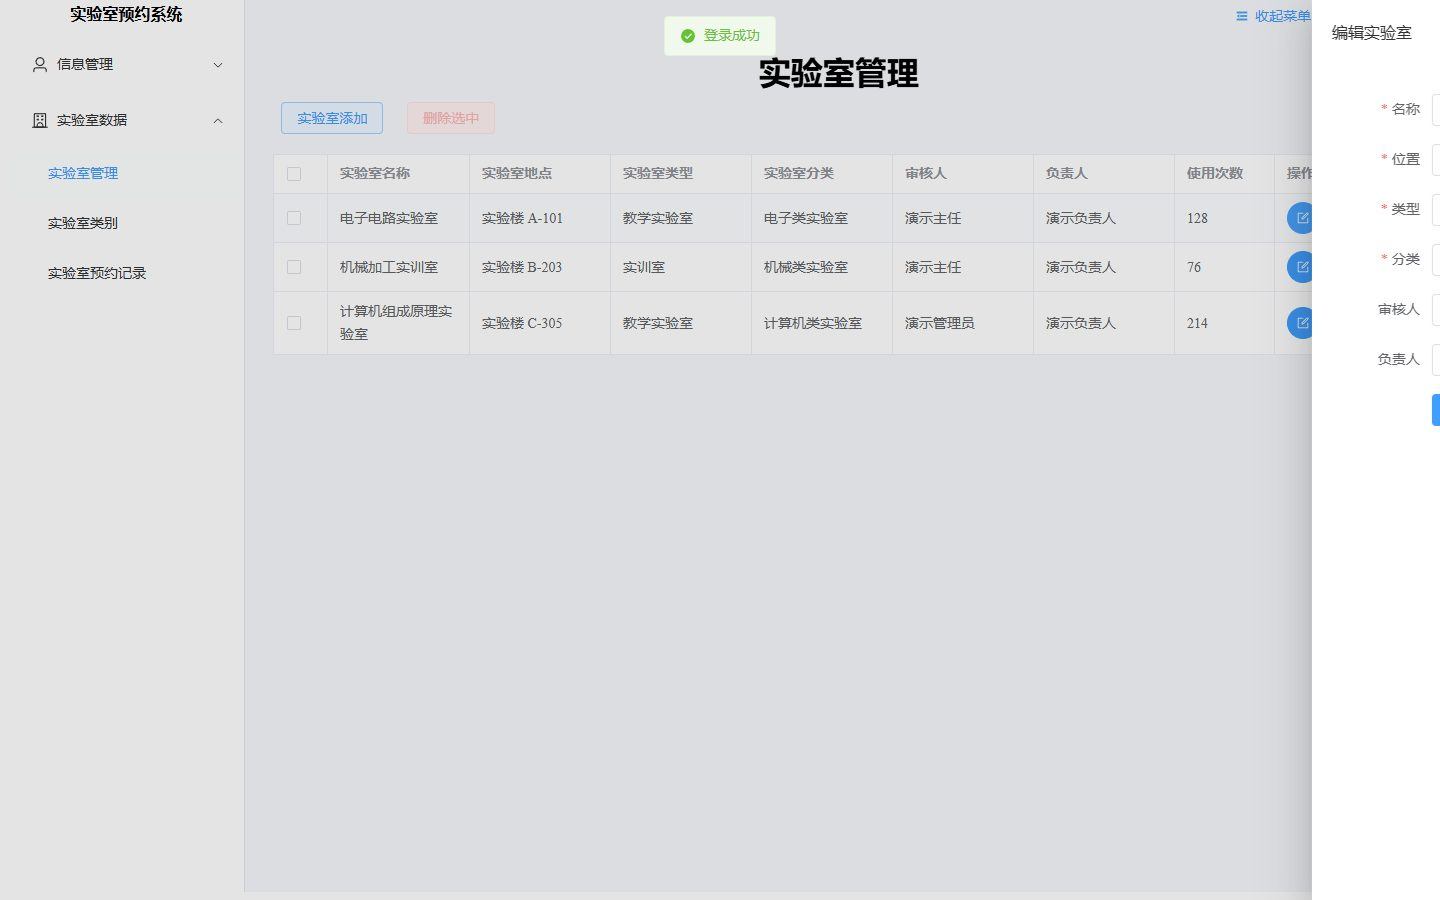
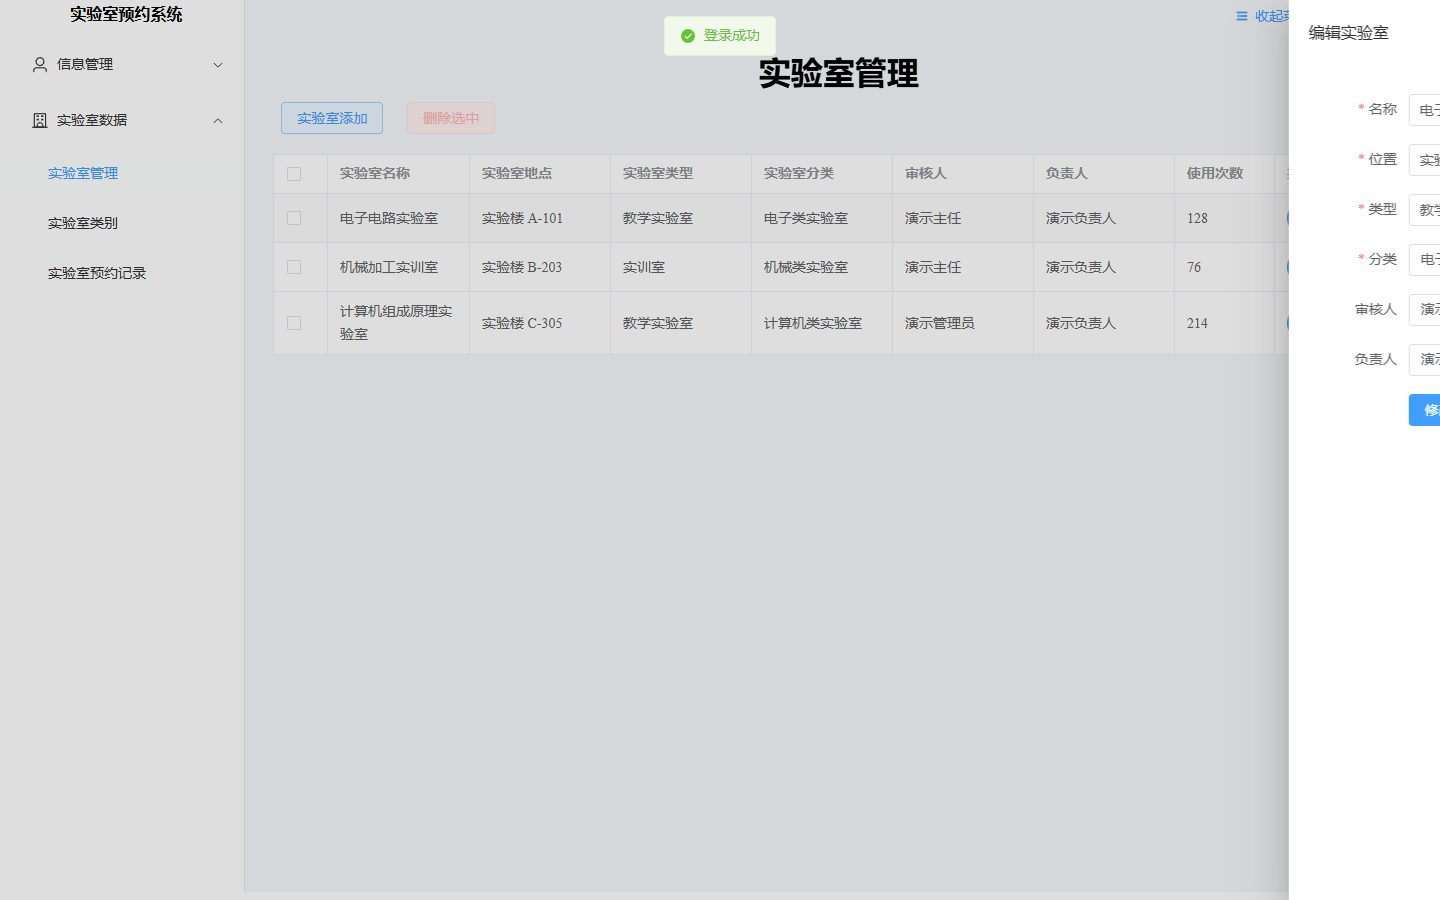
chore(assets): 移除第三方图片并换用自有 SVG 资源

Changed region(s): [[0.875, 0.0, 1.0, 1.0], [0.9688, 0.4356, 1.0, 0.4978]]

diff --git a/index.html b/index.html
@@ -1,12 +1,16 @@
-<!DOCTYPE html>
+<!doctype html>
 <html lang="zh-CN">
-  <head>
-    <meta charset="UTF-8">
-    <meta name="viewport" content="width=device-width, initial-scale=1.0">
-    <title>实验室预约系统</title>
-  </head>
-  <body>
-    <div id="app"></div>
-    <script type="module" src="/src/main.js"></script>
-  </body>
+    <head>
+        <meta charset="UTF-8" />
+        <meta name="viewport" content="width=device-width, initial-scale=1.0" />
+        <meta name="description" content="实验室预约系统管理端：Vue 3 + Element Plus + Vite，内置离线 Mock 数据。" />
+        <meta name="theme-color" content="#0f766e" />
+        <meta name="referrer" content="strict-origin-when-cross-origin" />
+        <link rel="icon" type="image/svg+xml" href="/favicon.svg" />
+        <title>实验室预约系统</title>
+    </head>
+    <body>
+        <div id="app"></div>
+        <script type="module" src="/src/main.js"></script>
+    </body>
 </html>

diff --git a/src/views/NotFind.vue b/src/views/NotFind.vue
@@ -1,6 +1,6 @@
 <script setup>
 import { useRouter } from 'vue-router'
-import sjzc from '@/assets/sjzc.png'
+import brand from '@/assets/brand.svg'
 
 const router = useRouter()
 
@@ -21,7 +21,7 @@ const goHome = () => {
 <template>
     <el-result icon="warning" sub-title="您访问的路径有误！" title="404">
         <template #icon>
-            <el-image :src="sjzc" class="img" />
+            <el-image :src="brand" class="img" />
         </template>
         <template #extra>
             <el-button type="primary" @click="goHome">返回首页</el-button>

diff --git a/src/views/Login.vue b/src/views/Login.vue
@@ -102,8 +102,8 @@ const login = async () => {
 
     .bg {
         background:
-            url('@/assets/sjzc.png') no-repeat 50% center / 240px auto,
-            url('@/assets/lab.jpeg') no-repeat center / cover;
+            url('@/assets/brand.svg') no-repeat 50% center / 200px auto,
+            url('@/assets/login-bg.svg') no-repeat center / cover;
         border-radius: 0 20px 20px 0;
     }
 

diff --git a/docs/DEPLOYMENT.md b/docs/DEPLOYMENT.md
@@ -1,0 +1,63 @@
+# 部署与安全响应头
+
+## 构建选择
+
+| 场景         | 命令                                   | 路由模式 | 适用环境                         |
+| ------------ | -------------------------------------- | -------- | -------------------------------- |
+| 对接真实后端 | `npm run build` / `npm run build:prod` | history  | Nginx、对象存储 + 回退、同域后端 |
+| 纯静态演示   | `npm run build:demo`                   | hash     | GitHub Pages、任意静态子路径     |
+
+生产构建会把 `@/mock` 门面替换为空实现；`npm run check:bundle` 可再次确认产物不含
+Mock 种子数据或演示凭据。
+
+## Nginx 示例（history 模式）
+
+```nginx
+server {
+    listen 80;
+    server_name labadmin.example.com;
+    root /var/www/labadmin/dist;
+    index index.html;
+
+    # SPA 深层链接回退
+    location / {
+        try_files $uri $uri/ /index.html;
+    }
+
+    # 后端接口反向代理（按实际后端地址调整）
+    location /api/ {
+        proxy_pass http://127.0.0.1:8080;
+        proxy_set_header Host $host;
+        proxy_set_header X-Real-IP $remote_addr;
+        proxy_set_header X-Forwarded-For $proxy_add_x_forwarded_for;
+        proxy_set_header X-Forwarded-Proto $scheme;
+    }
+
+    # 基础安全响应头
+    add_header X-Content-Type-Options "nosniff" always;
+    add_header Referrer-Policy "strict-origin-when-cross-origin" always;
+    add_header Permissions-Policy "camera=(), microphone=(), geolocation=()" always;
+    add_header X-Frame-Options "DENY" always;
+
+    # Element Plus 会注入内联样式，因此 style-src 需要 'unsafe-inline'
+    add_header Content-Security-Policy "default-src 'self'; script-src 'self'; style-src 'self' 'unsafe-inline'; img-src 'self' data:; font-src 'self' data:; connect-src 'self'; frame-ancestors 'none'; base-uri 'self'; form-action 'self'" always;
+}
+```
+
+如果后端部署在其他域名，请把该域名加入 `connect-src`，并同步配置
+`VITE_API_BASE_URL`。
+
+## 纯静态 demo
+
+`npm run build:demo` 使用相对路径与 hash 路由，可部署到任意子目录（如 GitHub Pages），
+无需宿主提供 404 回退。demo 产物内置 Mock 与演示账号，**不得作为生产环境**使用。
+
+## 本地容器 / 远程开发
+
+开发服务器默认只监听 `127.0.0.1`。在 Dev Container、WSL2 或远程 SSH 场景下，可设置：
+
+```sh
+VITE_DEV_HOST=0.0.0.0 npm run dev
+```
+
+请仅在可信网络中暴露开发服务器。

diff --git a/docs/ASSETS.md b/docs/ASSETS.md
@@ -1,0 +1,25 @@
+# 媒体资源授权说明
+
+本项目代码以 [MIT License](../LICENSE) 发布。以下媒体资源同样由项目作者为
+`LaboratoryAdmin-frontend` 专门创作，可随项目以 MIT 许可自由使用、修改与再分发：
+
+| 文件                          | 用途                    | 来源 / 授权                         |
+| ----------------------------- | ----------------------- | ----------------------------------- |
+| `src/assets/brand.svg`        | 登录页与 404 页品牌标识 | 项目作者原创 SVG，随项目以 MIT 发布 |
+| `src/assets/login-bg.svg`     | 登录页背景              | 项目作者原创 SVG，随项目以 MIT 发布 |
+| `images/logo.svg`             | README 头部 logo        | 与 `brand.svg` 相同，项目作者原创   |
+| `public/favicon.svg`          | 浏览器 favicon          | 与 `brand.svg` 相同，项目作者原创   |
+| `docs/images/login.jpg`       | README 演示截图         | 由本项目 demo 构建实际运行截图生成  |
+| `docs/images/user-list.jpg`   | README 演示截图         | 由本项目 demo 构建实际运行截图生成  |
+| `docs/images/edit-drawer.jpg` | README 演示截图         | 由本项目 demo 构建实际运行截图生成  |
+
+## 已移除的第三方资源
+
+早期版本曾包含高校校徽图片与来源不明的实拍实验室照片，因无法确认授权已全部移除，
+不再随本仓库分发。若你从旧版本 fork 中保留了这些文件，请自行确认授权或删除。
+
+## 依赖许可
+
+项目直接依赖均为 MIT 许可；安装依赖后可通过各包 `package.json` 的 `license`
+字段复核。若未来引入其他许可的资源（字体、图标、图片、音视频），请在本文件登记
+来源、作者与许可，并确认与 MIT 兼容。

diff --git a/README.md b/README.md
@@ -1,6 +1,6 @@
 <div align="center">
 
-<img src="images/logo.png" alt="logo" width="120" height="120" />
+<img src="images/logo.svg" alt="logo" width="120" height="120" />
 
 # 实验室预约系统 · 管理端
 
@@ -133,6 +133,7 @@ Mock 数据脱敏约定：学号为虚构号段，姓名为虚构姓名，手机
 | 纯静态演示（无后端） | `npm run build:demo`                       | `dist/`（`base` 为相对路径） | 含 Mock 与演示账号，**请勿当作生产环境部署** |
 
 > `npm run preview` 预览 demo 时同样可用；若直接 `scp dist/` 部署，请先确认所用的是哪种构建。
+> 部署细节、SPA 回退与 Nginx 安全响应头示例见 [docs/DEPLOYMENT.md](./docs/DEPLOYMENT.md)。
 
 ## 参与贡献
 
@@ -147,12 +148,12 @@ Mock 数据脱敏约定：学号为虚构号段，姓名为虚构姓名，手机
 
 ## 许可证
 
-本项目基于 [MIT License](./LICENSE.txt) 开源。
+本项目基于 [MIT License](./LICENSE) 开源。媒体资源授权见 [docs/ASSETS.md](./docs/ASSETS.md)。
 
 <!-- links -->
 
 [license-shield]: https://img.shields.io/github/license/wmh1024/LaboratoryAdmin-frontend.svg?style=flat-square
-[license-url]: ./LICENSE.txt
+[license-url]: ./LICENSE
 [vue-shield]: https://img.shields.io/badge/Vue-3.x-42b883?style=flat-square&logo=vue.js
 [vue-url]: https://vuejs.org/
 [vite-shield]: https://img.shields.io/badge/Vite-5.x-646cff?style=flat-square&logo=vite
